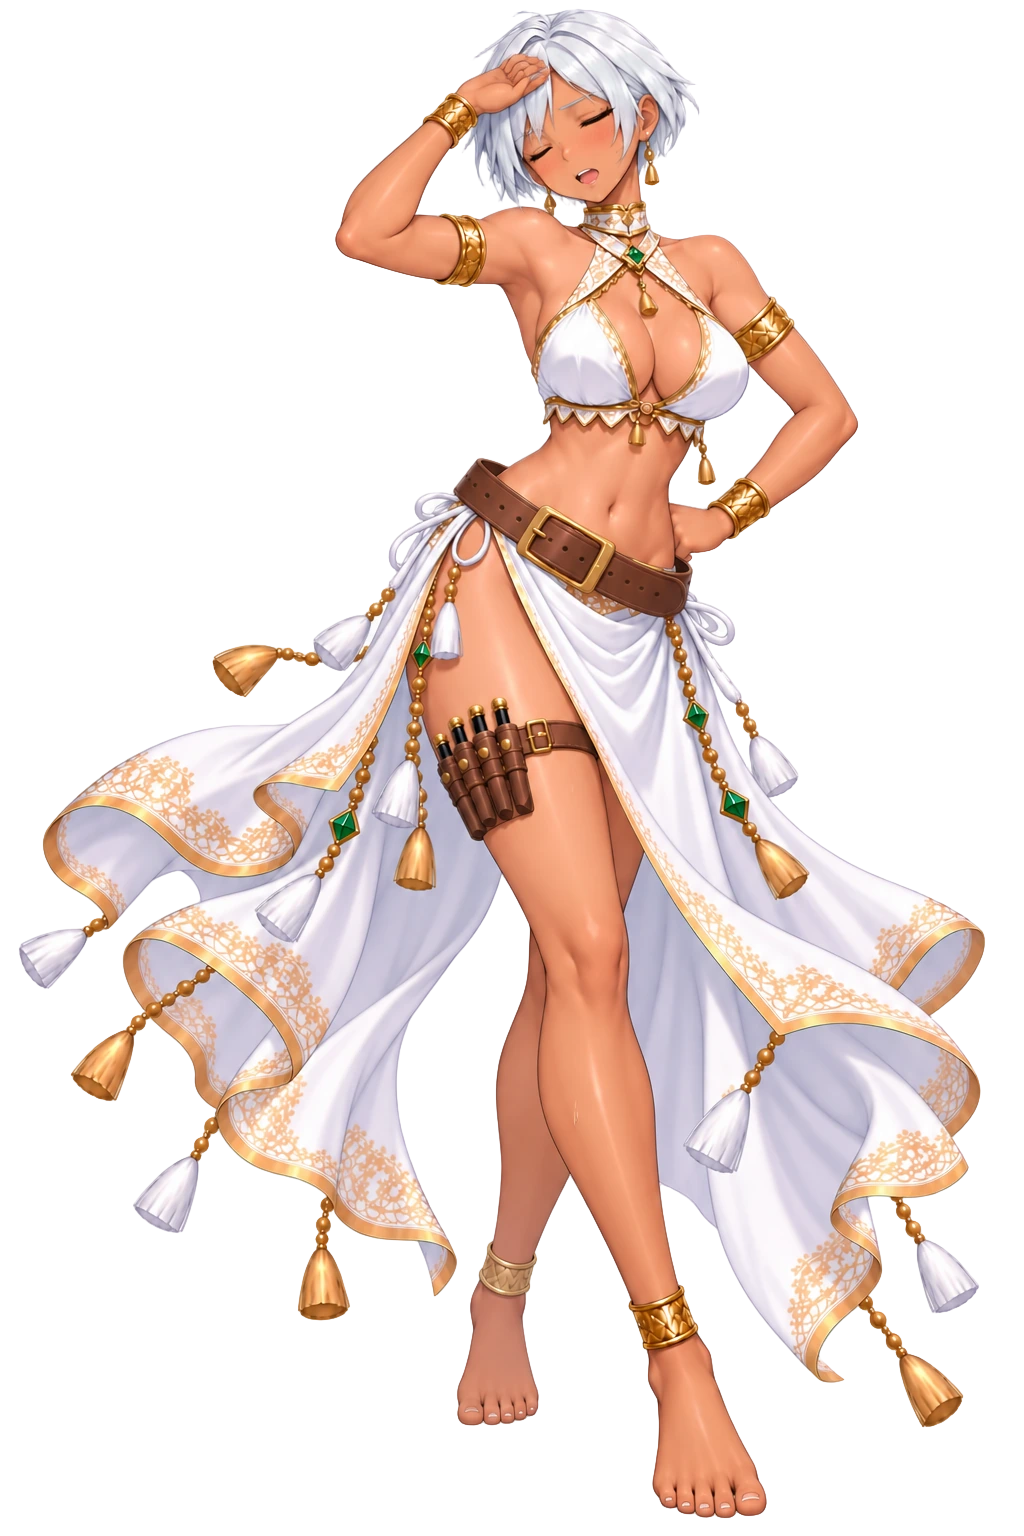
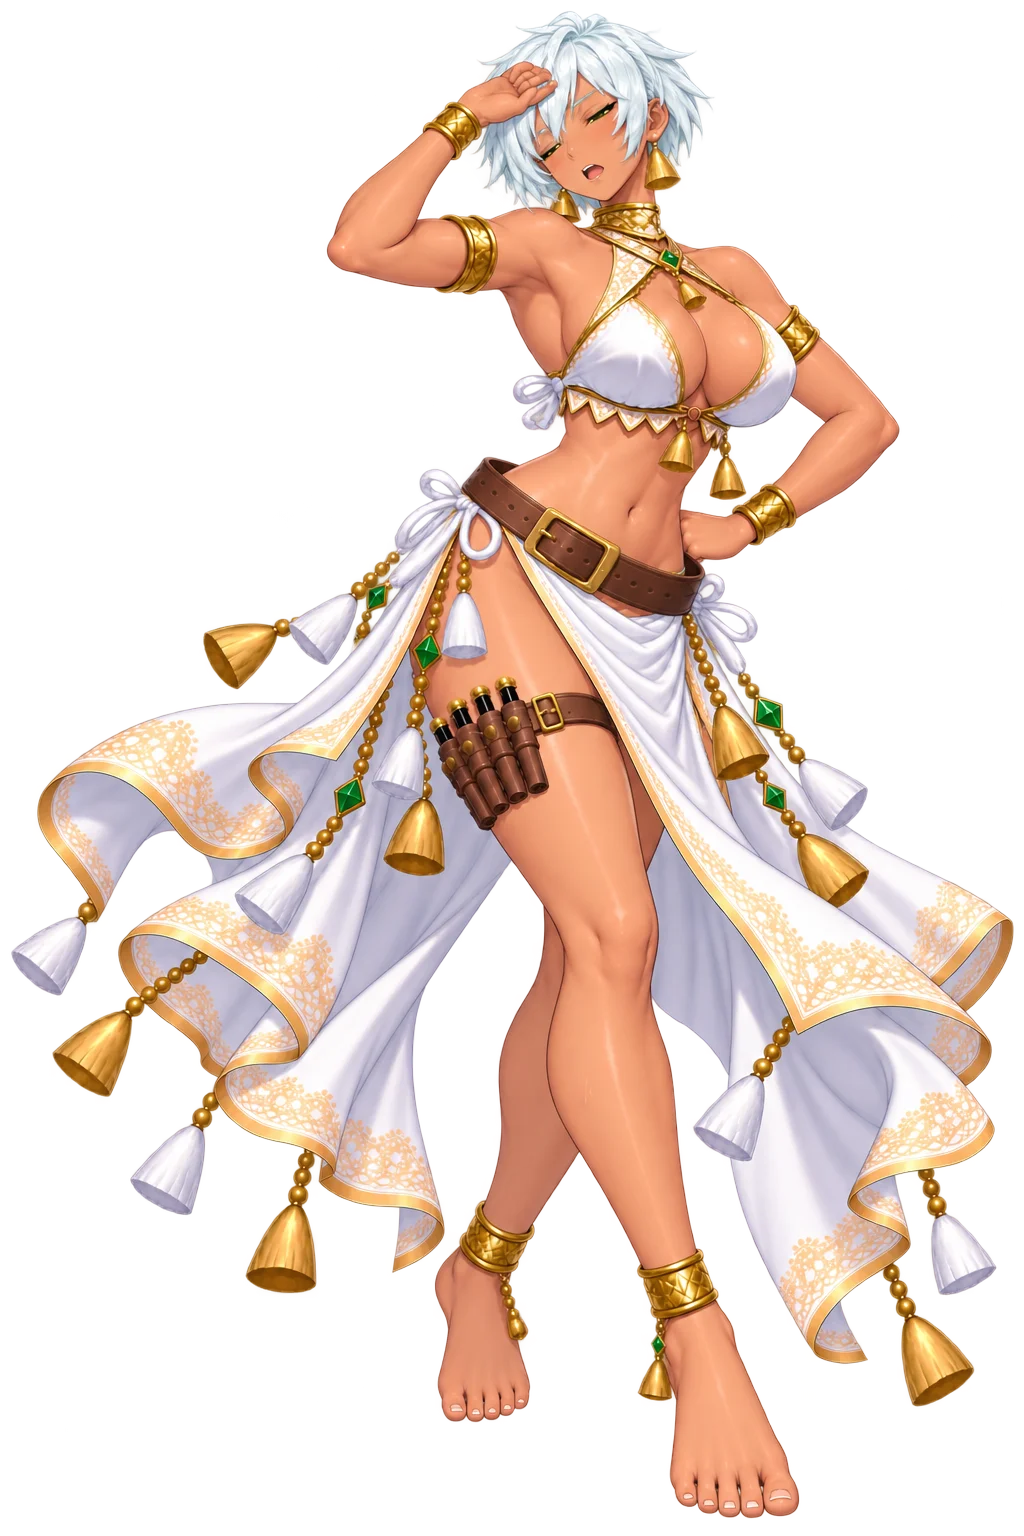
art(索拉娜): relief／sleep 短提示詞版（14/15）＋ 場景盤點
· relief 201.5°／sleep 212.7°，角落 alpha 0、近白 1.2~1.4%
· ⚠ sleep 是坐姿、人物在框裡大了 1.29 倍 —— cm/standCm 要看畫面調，工單已註明
· 場景盤點：227 個節點背景 0 缺；真的欠的只有 Varn_Church（等 Ray 給形制）
  與 mon_dragon_front.webp（飛行第三型態，白底 raw 也不在庫）

diff --git a/resources/background/_scene_inventory_20260921.md b/resources/background/_scene_inventory_20260921.md
@@ -1,0 +1,67 @@
+# 場景盤點 — 2026-09-21（美術 session）
+
+> 照 §0.1（ver -1543）：**不欠的也要註記不欠，而且要寫為什麼。**
+> 判準的兩邊都有出處：**磁碟上有什麼**（`find` 量的）＋**規格說要什麼**
+> （`script/town.js` 的節點 `bg` / 各 spec / `tools/script_lint.py`）。
+
+## 一、結論先講
+
+| | |
+|---|---|
+| `script/town.js` 的節點背景 | **227 個 bg 基底、0 個找不到檔案** —— 一格都不欠 |
+| 磁碟上的背景檔 | 716 張（`resources/background/` 含 16 個子資料夾） |
+| **真的欠的場景** | **1 張**：`Varn_Church`（拉芬斯達爾／雪都 大教堂） |
+| 真的欠的怪圖 | **1 張**：`mon_dragon_front.webp`（王座徘徊者・空中戰第三型態，白底 raw 也不在庫裡） |
+
+## 二、⚠ 欠的（兩筆，都不是「畫了就好」）
+
+### 1. `Varn_Church` —— 拉芬斯達爾（雪都）大教堂
+- **卡在 Ray，不是卡在美術**：`script/town.js:4784` 與 `_ravnsdal_spec.md` §三 都寫著
+  「宗教建築的**形制是世界觀的事，Ray 還沒給方向**」。
+- 現況：那一格的 `bg` **暫時指中心區**（`varn_midtown`）—— 刻意的，因為候選鏈全載不到時
+  `bgFor` 會「照樣放行」，畫面會**停在前一格**，從不同方向走進來會看到不同的背景。
+- `tools/script_lint.py` 自己會報這一條（不必人記）。
+- ⇒ **要動之前先問 Ray 要什麼形制。**
+
+### 2. `resources/enemy/mon_dragon_front.webp`
+- `script/enemies.js` 的 `bl_dragon_front`（空中戰打到 50% 換的那一張卡）指著它，
+  **檔案不存在** ⇒ 那一格現在是**空的立繪**（不會壞，但看得出來）。
+- 註解說美術 -1418 交的是白底 raw `_originals/enemy/mon_dragon_v1_flight_raw.png`
+  —— ⚠ **那個檔現在也不在**（`_originals/enemy/` 裡只有 throne×3、v1/v2/v3 各三張）。
+- ⇒ **要重出一張**，而且照 §5 的飛行怪規格（-1440/-1442）：正面迎面、透視正確、
+  四邊各留 12% 空白、真 alpha。
+
+## 三、✔ 不欠的（寫出理由，免得下一個人重報）
+
+| 項 | 狀態 | 為什麼看起來像缺 |
+|---|---|---|
+| **卡耶爾山谷 5 格**（`canyon_*`） | ✔ 不欠 | **刻意的三差分**（day/dusk/night，沒有 dawn）。ver -1542 我拿「室外＝四差分」當預設誤報過一次，Ray 當場擋下 |
+| **夏爾森林 9 格**（`forest_*`） | ✔ 不欠 | 同上，刻意三差分 |
+| **各城的店舖單張**（槍店／公會／雜貨／咖啡…） | ✔ 不欠 | 營業時間 `[8,17]`，照 §5（ver -1378）**只要 day 一張是規格**，不是少交 |
+| `_shinier_worklist.md` 說「缺 21 張」 | ✔ 不欠 | **那份工單是過期的**（憲法 §0.1 明載：「說缺 13 張 Dawn，實際 0 張缺」）。磁碟實測夏爾村全部有檔 |
+| **拉芬斯達爾 16 格 / 東方泊地 16 格** | ✔ 不欠 | 兩座城的節點 bg 全部找得到（前綴分別是 `varn_` 與 `east_`，不是資料夾名） |
+| `resources/background/tomb_gate_day.webp`（lint 報缺） | ✔ 不欠 | **誤報**：檔案在 `background/tomb/` 子資料夾裡，而且那一行只是註解在引用它當構造參考 |
+| `holysee/` 3 張、`deck/` 2 張 沒有城鎮節點在用 | ✔ 不欠 | 聖王廳是飛行地圖的城（走 `flight/city/`）、甲板是劇情場景（`mainScript.js` 在用），本來就不是城鎮節點 |
+
+## 四、🟡 未定（不是缺，是 Ray 還沒說要不要做）
+
+- `_eastport_spec.md` §九 的「**拉芬 7 格 × 4 ＝ 28 張**」——
+  `_capital_gaps_worklist.md` 已註明「**Ray 還沒明講要不要補，別自己開工**」。
+  ⚠ 那 7 格多半就是上面那條「營業時間 [8,17] 只要 day」的店舖，照 -1378 **本來就不必補**。
+
+## 五、可回收（多交的，照 §5 ver -1378）
+
+營業到 17 點以前、卻交了 3~5 張時段差分的 **7 格**（留著會讓下一個人以為那一格是四差分）：
+
+```
+capital_cityhall   [8,17]  dawn+day+dusk+night+midnight
+captal_guild       [8,17]  dawn+day+dusk
+capital_grocerie   [8,17]  dawn+day+dusk
+shinier_grocery    [8,17]  dawn+day+dusk+night
+east_firearm       [8,17]  dawn+day+dusk+night
+east_guild         [8,17]  dawn+day+dusk+night
+east_grocerie      [8,17]  dawn+day+dusk+night
+```
+
+⚠ **我沒有回收** —— 回收是刪除動作（§5 的回收區），而「這幾格的 `hours` 是不是就是
+這一組」是資料端的事（鐵律 11）。**要回收請 Ray 說一聲**，我再走 `tools/recycle.sh`。

diff --git a/resources/si/_sorana_program_worklist.md b/resources/si/_sorana_program_worklist.md
@@ -13,6 +13,8 @@ resources/si/sorana_si_eat.webp        resources/si/sorana_si_serious.webp
 resources/si/sorana_si_nod.webp        resources/si/sorana_si_stare.webp
 resources/si/sorana_si_point.webp      resources/si/sorana_si_wave.webp
 resources/si/sorana_si_lookaway.webp   resources/si/sorana_si_worry.webp
+resources/si/sorana_si_relief.webp     resources/si/sorana_si_sleep.webp
+resources/si/sorana_si_scare.webp      ← scare 交件後一起
 ```
 
 ⚠ 這 11 個目前都**還沒有** `?v=`，所以是加 `?v=2`（同 `renna_si_scream` 的寫法）。
@@ -35,6 +37,18 @@ resources/si/sorana_si_lookaway.webp   resources/si/sorana_si_worry.webp
 | wave | 3 → **9** | 1516 → **1526** |
 | worry | 0 → **5** | 1514 → **1519** |
 | lookaway | 5 → 5（不變） | 1513 → **1521** |
+| relief | 8 → **11** | 1518 → **1517** |
+| sleep | 304 → **231** | 1231 → **1424** ⚠ 見下 |
+
+### ⚠⚠ `sleep` 另外要調 `cm`／`standCm`（**不要照抄，要看畫面調**）
+
+那是**坐姿**（現行 `cm:147, standCm:140`）。新圖的人物在框裡**比舊圖大 1.29 倍**
+（人物高 927px → 1193px）—— 只換 `top`/`bot` 的話她在畫面上會**縮小約兩成**。
+
+⚠ 憲法 §5 明寫：`cm`／`standCm` **沒有可靠的自動量法，要看渲染結果調**，
+而且**只動這兩個、不要去動 `top`/`bot`**（那兩個是那張圖的客觀事實）。
+⚠ 純算是 `147 × 1.29 ≈ 189`，但那會**超過 `CAST_TALL` 現行最高的 178**，
+把全體立繪一起縮小 —— **所以不要照算的填**，開遊戲看著調。
 
 ⚠⚠ **`fx` 保持原值，不要照我量的改。** 理由兩個：
 1. 新圖是**照舊圖的姿勢**重畫的（同一個姿勢 ⇒ 沿用，§5 的 -649）。
@@ -55,4 +69,4 @@ resources/si/sorana_si_lookaway.webp   resources/si/sorana_si_worry.webp
 
 - 其餘索拉娜立繪（含 `battlecry`／`front`／`side`／`back` 與 read 系列）**這一輪沒換**。
 - Ray 交辦「舊索拉娜圖全部重製」還有 **46 張**沒做（清單在 `_sorana_regen_spec.md` §十）。
-- 這一輪還欠 3 張：`relief`／`sleep`／`scare`（額度用完，明天 13:00 後接）。
+- 這一輪還欠 **1 張**：`scare`（那一串連續掛掉兩次，還在重送）。
